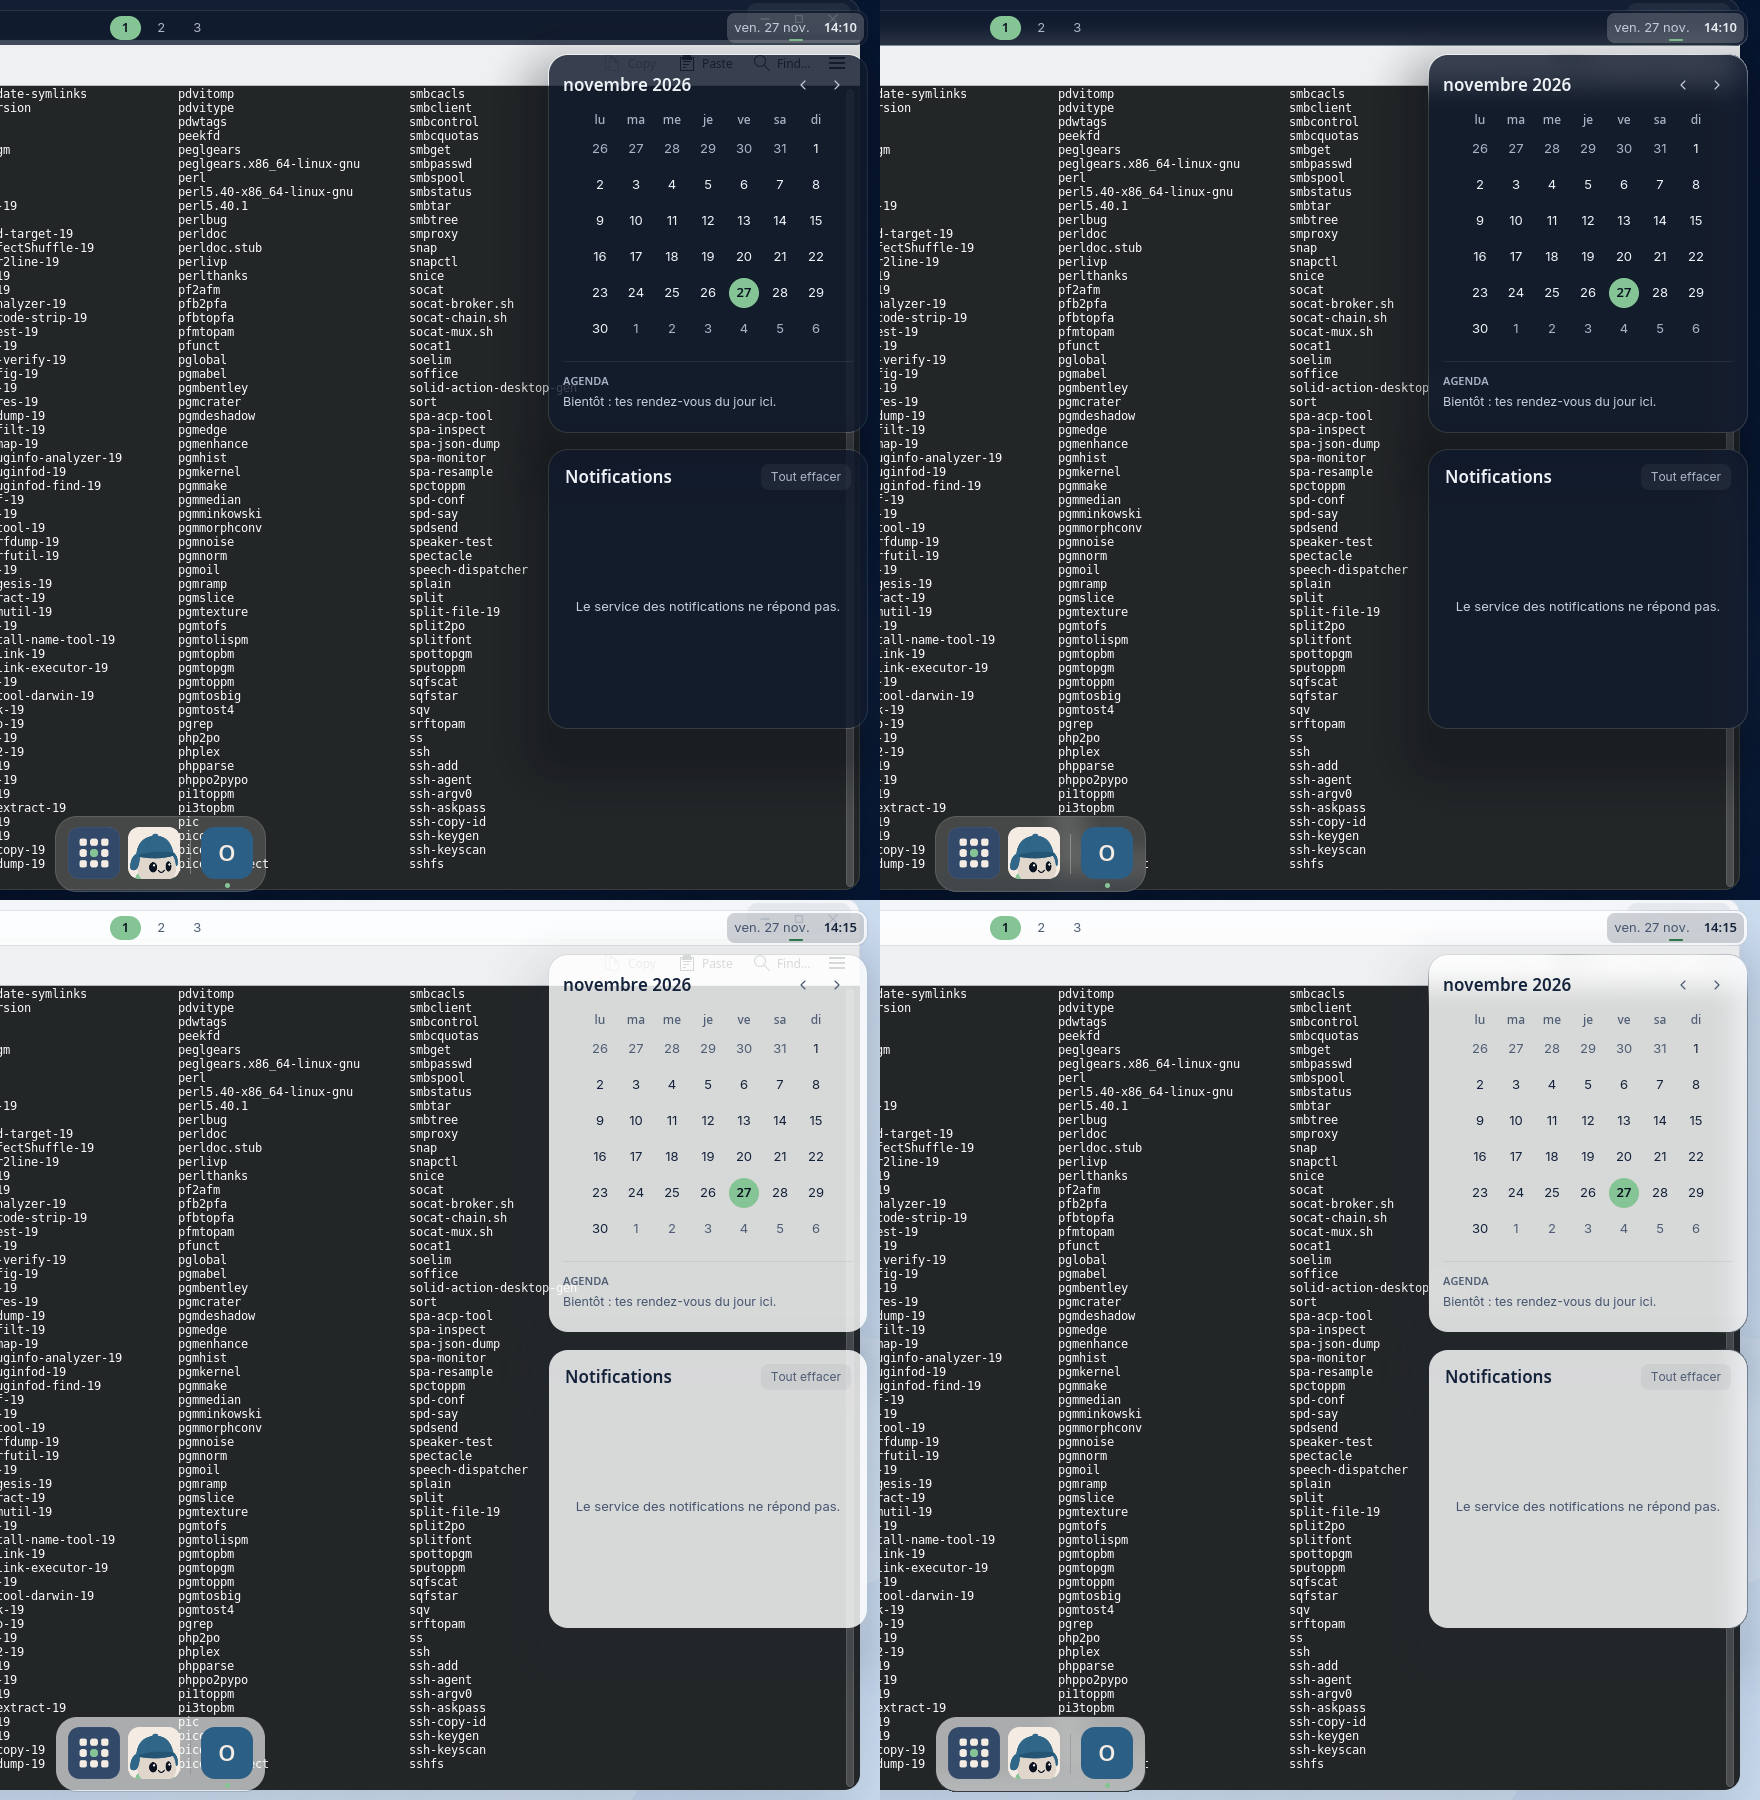
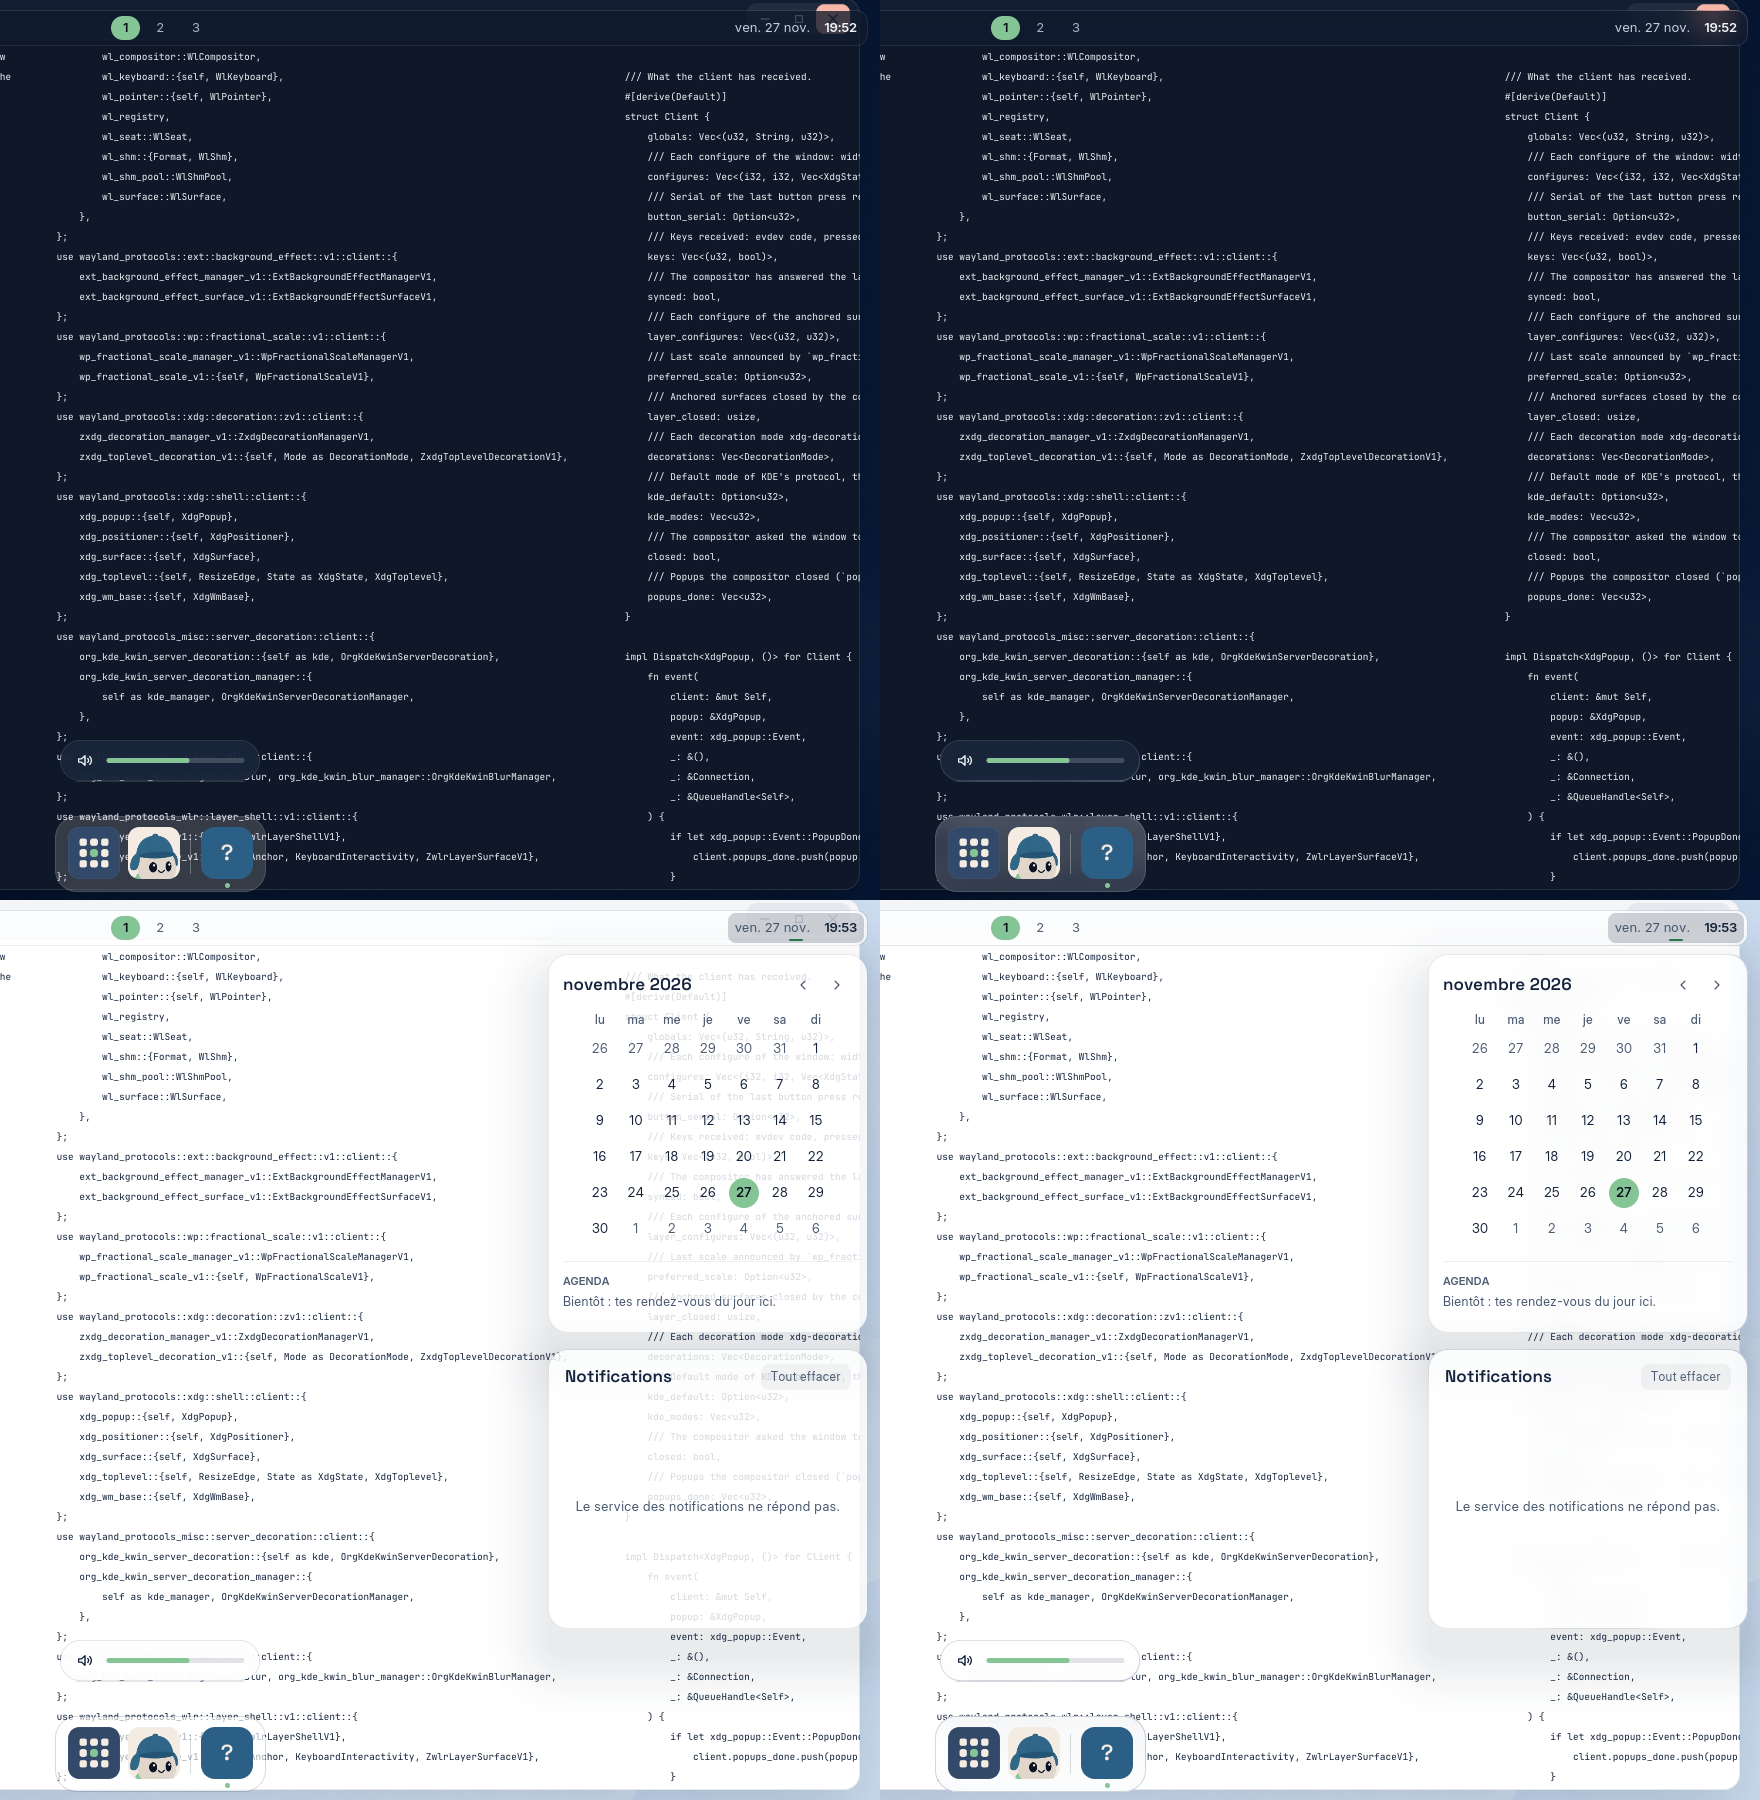
D-37b: boards of the blur at 1920 x 1080 and 2560 x 1600 at scale 1.5, with text, the bar's panel, the dock and the OSD

diff --git a/desktop/compositor/tests/headless.rs b/desktop/compositor/tests/headless.rs
@@ -511,6 +511,15 @@ mod tests {
 
         /// `show_decorated`, the content filled with `fill`.
         fn show_decorated_in(&mut self, fill: Color) -> (Shown, ZxdgToplevelDecorationV1) {
+            let shown = self.open_decorated(fill);
+            self.run_until("the placement", |_, s| {
+                location(s) == Some((200, 171).into())
+            });
+            shown
+        }
+
+        /// `show_decorated_in`, wherever the compositor places it, on any screen.
+        fn open_decorated(&mut self, fill: Color) -> (Shown, ZxdgToplevelDecorationV1) {
             let qh = self.queue.handle();
             let registry = self.conn.display().get_registry(&qh, ());
             self.run_until("the globals", |c, _| {
@@ -540,9 +549,7 @@ mod tests {
             let buffer = pool.create_buffer(0, 400, 300, 1600, Format::Argb8888, &qh, ());
             surface.attach(Some(&buffer), 0, 0);
             surface.commit();
-            self.run_until("the placement", |_, s| {
-                location(s) == Some((200, 171).into())
-            });
+            self.run_until("the window", |_, s| s.space.elements().next().is_some());
             let shown = Shown {
                 seat,
                 toplevel,
@@ -3404,11 +3411,11 @@ mod tests {
     }
 
     impl Harness {
-        /// One screen of `size` pixels at scale 1.
-        fn start_screen(size: (i32, i32)) -> Self {
+        /// One screen of `size` pixels at `scale`.
+        fn start_screen(size: (i32, i32), scale: f64) -> Self {
             let event_loop = EventLoop::try_new().unwrap();
             let mut state = State::new(&event_loop).unwrap();
-            state.add_output(size.into(), 1.0);
+            state.add_output(size.into(), scale);
             let (server_side, client_side) = UnixStream::pair().unwrap();
             state.insert_client(server_side);
             let conn = Connection::from_socket(client_side).unwrap();
@@ -3423,16 +3430,82 @@ mod tests {
         }
     }
 
-    /// One row of the blur board: a Konsole full of text over nearly the whole screen, the real
-    /// bar with its calendar open and the real dock, in `theme`; drawn without the blur, then
-    /// with it.
-    fn blur_board_row(theme: &str, size: (i32, i32)) -> (Vec<u8>, Vec<u8>) {
+    /// Fills the window of `shown` with text over `size` logical pixels, its buffer at
+    /// `buffer_scale`: the source of these tests in the code font, as a terminal shows it.
+    fn text_window(h: &mut Harness, shown: &Shown, size: (i32, i32), buffer_scale: i32) -> File {
+        use ab_glyph::{Font as _, FontRef, PxScale, ScaleFont as _, point};
+
+        let (w, ht) = (size.0 * buffer_scale, size.1 * buffer_scale);
+        let k = buffer_scale as f32;
+        let p = sherlock_ui::color::palette();
+        let (bg, fg) = (p.window, p.text_primary);
+        let mut pixels = vec![[bg.r, bg.g, bg.b].map(f32::from); (w * ht) as usize];
+        let font = FontRef::try_from_slice(sherlock_ui::typography::FONTS[2]).unwrap();
+        let px = PxScale::from(sherlock_ui::typography::CODE_SIZE * k);
+        let advance = font.as_scaled(px).h_advance(font.glyph_id('m'));
+        let line = sherlock_ui::typography::CODE_LINE_HEIGHT * k;
+        let mut draw_line = |text: &str, left: f32, baseline: f32| {
+            for (column, c) in text.chars().enumerate() {
+                let at = point(left + (column as f32 + 1.0) * advance, baseline);
+                let glyph = font.glyph_id(c).with_scale_and_position(px, at);
+                let Some(outline) = font.outline_glyph(glyph) else {
+                    continue;
+                };
+                let min = outline.px_bounds().min;
+                outline.draw(|gx, gy, cover| {
+                    let (x, y) = (min.x as i32 + gx as i32, min.y as i32 + gy as i32);
+                    if (0..w).contains(&x) && (0..ht).contains(&y) {
+                        let pixel = &mut pixels[(y * w + x) as usize];
+                        for (v, f) in pixel.iter_mut().zip([fg.r, fg.g, fg.b]) {
+                            *v += (f32::from(f) - *v) * cover.min(1.0);
+                        }
+                    }
+                });
+            }
+        };
+        // Blocks of 100 columns side by side, each going on where the last stopped, to fill
+        // the width.
+        let source: Vec<&str> = include_str!("headless.rs").lines().collect();
+        let rows = (ht as f32 / line) as usize;
+        let block = 100.0 * advance;
+        let blocks = (w as f32 / block).ceil() as usize;
+        for row in 0..rows {
+            let baseline = (row as f32 + 1.0) * line;
+            for b in 0..blocks {
+                let text = source[(b * rows + row) % source.len()];
+                draw_line(text, b as f32 * block, baseline);
+            }
+        }
+        let bytes: Vec<u8> = pixels
+            .iter()
+            .flat_map(|[r, g, b]| [*b as u8, *g as u8, *r as u8, 255])
+            .collect();
+        let qh = h.queue.handle();
+        let mut file = shm_file(bytes.len() as u64);
+        file.write_all(&bytes).unwrap();
+        let pool = shown
+            .shm
+            .create_pool(file.as_fd(), bytes.len() as i32, &qh, ());
+        let buffer = pool.create_buffer(0, w, ht, w * 4, Format::Argb8888, &qh, ());
+        shown.surface.set_buffer_scale(buffer_scale);
+        shown.surface.attach(Some(&buffer), 0, 0);
+        shown.surface.damage(0, 0, size.0, size.1);
+        shown.surface.commit();
+        settle(h);
+        file
+    }
+
+    /// One shot of the blur board: text over nearly the whole screen, the real bar with its
+    /// calendar open, the real dock and the on-screen display of the media keys, in `theme`, on
+    /// a screen of `size` pixels at `scale`; drawn without the blur, then with it.
+    fn blur_board_row(theme: &str, size: (i32, i32), scale: f64) -> (Vec<u8>, Vec<u8>) {
         use compositor::{theme as follow, wallpaper};
         use smithay::desktop::layer_map_for_output;
         use std::{path::PathBuf, process::Command};
 
         let root = PathBuf::from(env!("CARGO_MANIFEST_DIR")).join("../..");
-        let dir = PathBuf::from(env!("CARGO_TARGET_TMPDIR")).join(format!("blur-board-{theme}"));
+        let dir = PathBuf::from(env!("CARGO_TARGET_TMPDIR"))
+            .join(format!("blur-board-{theme}-{}x{}", size.0, size.1));
         let _ = std::fs::remove_dir_all(&dir);
         let config = dir.join("config");
         std::fs::create_dir_all(config.join("appearance")).unwrap();
@@ -3466,7 +3539,7 @@ mod tests {
         picture.to_rgb8().save(folder.join(name)).unwrap();
 
         let mut drawing = Drawing::new(size).expect("Mesa's software EGL device");
-        let mut h = Harness::start_screen(size);
+        let mut h = Harness::start_screen(size, scale);
         let handle = h.event_loop.handle();
         follow::follow_at(&handle, &mut h.state, appearance);
         h.state.wallpaper =
@@ -3489,24 +3562,20 @@ mod tests {
                 .env("HOME", &dir)
                 .env("PATH", std::env::var_os("PATH").unwrap_or_default())
                 .env("RUST_LOG", "warn")
+                .env("RUST_BACKTRACE", "1")
                 .env("QT_QPA_PLATFORM", "wayland")
                 .env("ICED_BACKEND", "wgpu")
                 .env("VK_DRIVER_FILES", &lavapipe)
                 .spawn()
                 .unwrap()
         };
-        // Text over the whole width, written again once the window is maximized.
-        let text = "while true; do clear; ls -C -w \"$(tput cols)\" /usr/bin \\
-            | head -n \"$(($(tput lines) - 1))\"; sleep 2; done";
-        let system = std::path::Path::new("/usr/local/share:/usr/share");
-        // The programs of this build, next to the test's temporary folder.
-        let built = PathBuf::from(env!("CARGO_TARGET_TMPDIR")).join("../debug");
+        // The programs of this build, next to the test's temporary folder, or where
+        // `SHERLOCKOS_BIN` says.
+        let built = std::env::var_os("SHERLOCKOS_BIN").map_or_else(
+            || PathBuf::from(env!("CARGO_TARGET_TMPDIR")).join("../debug"),
+            PathBuf::from,
+        );
         let mut children = vec![
-            spawn(
-                "konsole",
-                &["--separate", "--hide-menubar", "-e", "sh", "-c", text],
-                system,
-            ),
             spawn(built.join("bar").to_str().unwrap(), &[], &data),
             spawn(built.join("dock").to_str().unwrap(), &[], &data),
         ];
@@ -3531,32 +3600,37 @@ mod tests {
                 }
             }
         };
-        let started = std::time::Instant::now();
-        while h.state.space.elements().next().is_none() {
-            assert!(
-                started.elapsed() < Duration::from_secs(60),
-                "Konsole shows no window"
-            );
-            run(&mut h, &mut drawing, 200);
-        }
-        run(&mut h, &mut drawing, 2000);
-        // Nearly the whole screen, under the panel and behind the dock: a maximized
-        // window would stop above the dock.
+        run(&mut h, &mut drawing, 3000);
+        // Nearly the whole screen, under the panel and behind the dock.
+        let logical = (
+            (f64::from(size.0) / scale).round() as i32,
+            (f64::from(size.1) / scale).round() as i32,
+        );
+        let (shown, _decoration) = h.open_decorated(Palette::DARK.window);
+        let area = (logical.0 - 40, logical.1 - 50);
+        let _text = text_window(&mut h, &shown, area, scale.ceil() as i32);
         let window = h.state.space.elements().next().unwrap().clone();
-        let toplevel = window.toplevel().unwrap();
-        toplevel.with_pending_state(|state| state.size = Some((size.0 - 40, size.1 - 50).into()));
-        toplevel.send_configure();
-        run(&mut h, &mut drawing, 2000);
         h.state.space.map_element(window, (20, 40), true);
-        run(&mut h, &mut drawing, 4000);
+        run(&mut h, &mut drawing, 2000);
         // The calendar, a panel of the bar on the same glass as the control centre: a click on the
         // clock. The control centre would show the machine's network and Bluetooth, and without
         // the system bus it has no indicators to open it.
-        let at = (f64::from(size.0) - 45.0, 28.0);
+        let at = (f64::from(logical.0) - 45.0, 28.0);
         h.click(at.0, at.1, 10);
         run(&mut h, &mut drawing, 3000);
+        // The on-screen display of the media keys.
+        let level = compositor::osd::Level {
+            kind: sherlock_ui::osd::Kind::Volume,
+            percent: 60,
+            muted: false,
+        };
+        // Faded in, then shown again before each shot: it goes on the compositor's own clock.
+        h.state.show_osd(level, None);
+        run(&mut h, &mut drawing, 500);
+        h.state.show_osd(level, None);
         drawing.scene.blur.set_mode(Mode::Off);
         let before = drawing.settled(&mut h).1;
+        h.state.show_osd(level, None);
         drawing.scene.blur.set_mode(Mode::Blur);
         let after = drawing.settled(&mut h).1;
         for child in &mut children {
@@ -3567,12 +3641,12 @@ mod tests {
         (before, after)
     }
 
-    /// The board of lot D-37: the right half of the screen, Konsole's text behind the dock and a
-    /// panel of the bar, without then with the blur (columns), dark then light (rows):
-    /// `screenshots/blur-board.png`.
+    /// The board of lot D-37: the right half of the screen, text behind the dock, a panel of
+    /// the bar and the on-screen display, without then with the blur (columns), dark then light
+    /// (rows): `screenshots/blur-board.png`.
     #[test]
-    #[ignore = "needs Mesa's EGL, lavapipe, Konsole and `cargo build -p bar -p dock`"]
-    fn blur_board_with_konsole_the_dock_and_a_panel() {
+    #[ignore = "needs Mesa's EGL, lavapipe and `cargo build -p bar -p dock`"]
+    fn blur_board_with_text_the_dock_and_a_panel() {
         let size = (1440, 900);
         let (x0, width) = (560u32, 880u32);
         let mut board = image::RgbaImage::new(2 * width, 2 * size.1 as u32);
@@ -3582,7 +3656,7 @@ mod tests {
             } else {
                 sherlock_ui::color::Theme::Light
             });
-            let (before, after) = blur_board_row(theme, size);
+            let (before, after) = blur_board_row(theme, size, 1.0);
             for (column, pixels) in [before, after].into_iter().enumerate() {
                 let full =
                     image::RgbaImage::from_raw(size.0 as u32, size.1 as u32, pixels).unwrap();
@@ -3598,5 +3672,32 @@ mod tests {
         let path = format!("{}/screenshots/blur-board.png", env!("CARGO_MANIFEST_DIR"));
         board.save(&path).unwrap();
         eprintln!("board: {path}");
+    }
+
+    /// The board of lot D-37b, at two sizes and scales: 1920 × 1080 at scale 1, and 2560 × 1600
+    /// at scale 1.5. The screen without then with the blur, one above the other, from a third
+    /// of its width to its right edge: `screenshots/blur-board-<width>x<height>.png`.
+    #[test]
+    #[ignore = "needs Mesa's EGL, lavapipe and `cargo build -p bar -p dock`"]
+    fn blur_board_at_two_sizes() {
+        for (size, scale) in [((1920, 1080), 1.0), ((2560, 1600), 1.5)] {
+            let (before, after) = blur_board_row("dark", size, scale);
+            let (w, h) = (size.0 as u32, size.1 as u32);
+            let x0 = w / 3;
+            let mut board = image::RgbaImage::new(w - x0, 2 * h);
+            for (row, pixels) in [before, after].into_iter().enumerate() {
+                let full = image::RgbaImage::from_raw(w, h, pixels).unwrap();
+                let cut = image::imageops::crop_imm(&full, x0, 0, w - x0, h).to_image();
+                image::imageops::overlay(&mut board, &cut, 0, row as i64 * i64::from(h));
+            }
+            let path = format!(
+                "{}/screenshots/blur-board-{}x{}.png",
+                env!("CARGO_MANIFEST_DIR"),
+                size.0,
+                size.1
+            );
+            board.save(&path).unwrap();
+            eprintln!("board: {path}");
+        }
     }
 }
